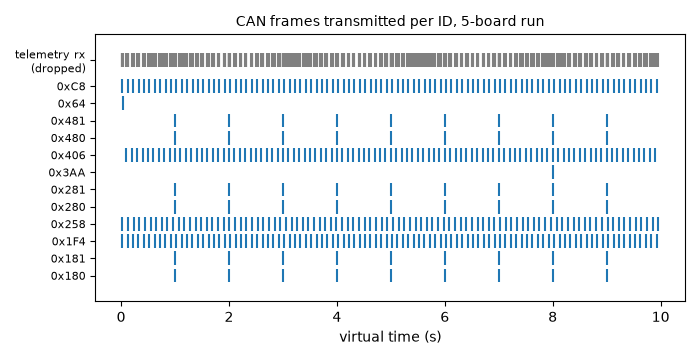
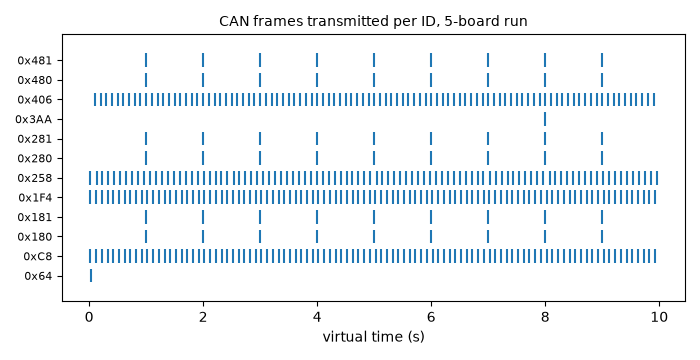
sim: connect TelemetryBoard's FDCAN1, correct the bit-rate-mismatch claim
TelemetryBoard's CAN pins are FDCAN1; FDCAN2 is never initialised and sat at its
1 Mbit/s reset value, so the scenario wiring was wrong, not the model or firmware.

diff --git a/Readme.md b/Readme.md
@@ -29,9 +29,15 @@ RelayBoard's PrechargeStatus (0x258, byte 0) against virtual time, with the BMS 
 
 ![CAN frames per ID](sim/screenshots/can-frames.png)
 
-Every frame transmitted on the main bus in the same run, one row per CAN ID. The grey top row is each
-frame TelemetryBoard was sent and dropped as `bit_rate_mismatch` (451 of 451; it received none), the gap
-described below.
+Every frame transmitted in the same run, one row per CAN ID.
+
+**Corrected 2026-11-16.** An earlier version of this page said TelemetryBoard's FDCAN2 ran at 1 Mbit/s and
+that the simulator dropped all 451 frames to it as `bit_rate_mismatch`, blaming a model or firmware
+init-order gap. That was a wiring error in `sim/scenario.yaml`, not a model or firmware fault:
+TelemetryBoard's CAN pins (PA11/PA12) are FDCAN1, and the firmware never initialises FDCAN2. The scenario
+connected `telemetry.fdcan2`, which sat at its reset NBTP `0x06000A03` (NBRP=0, NTSEG1=10, NTSEG2=3 =
+16 time quanta at the 16 MHz kernel clock = 1.000 Mbit/s, RM0440 section 44.4.7). The scenario now connects
+`telemetry.fdcan1`, which the firmware programs to 250 kbit/s like the other four boards' FDCAN2.
 
 **What runs:** five controllers, each on its own simulated STM32G474RET6, all on the same firmware tree.
 
@@ -41,7 +47,7 @@ described below.
 | MotorBoard | `MotorBoard` | boots, FDCAN1 and FDCAN2, throttle and regen potentiometers over I2C, sends and receives CAN |
 | BottomDistBoard | `BottomDistBoard` | boots, sends pedal status, receives CAN |
 | TopDistBoard | `TopDistBoard` | boots, receives CAN |
-| TelemetryBoard | `TelemetryBoard` | boots, but hears nothing on the bus and has no SD card, see the gaps below |
+| TelemetryBoard | `TelemetryBoard` | boots, receives CAN (451 of 451 frames in 10 s), has no SD card, see the gaps below |
 
 **The scenario**, as `sim graph --scenario sim/scenario.yaml` prints it. Square boxes are the simulated
 MCUs running the firmware, rounded boxes are the modelled parts around them, hexagons are the CAN buses:
@@ -63,7 +69,7 @@ flowchart LR
   medium0{{"can"}}
   relay -- "fdcan2" --- medium0
   motor -- "fdcan2" --- medium0
-  telemetry -- "fdcan2" --- medium0
+  telemetry -- "fdcan1" --- medium0
   topdist -- "fdcan2" --- medium0
   bottomdist -- "fdcan2" --- medium0
   relay_bps --- medium0
@@ -78,9 +84,9 @@ flowchart LR
 | Configuration | Where | Virtual | Wall | Result |
 | --- | --- | --- | --- | --- |
 | RelayBoard alone with BMS and MPPT peers | `sim/relay-only.yaml` | 10 s | 3.6 s | runs: 252 frames on the bus, precharge reaches Done at 5.48 s, fault at 8.07 s opens it |
-| All five boards, one main bus plus the motor bus | `sim/scenario.yaml` | 10 s | 14 to 24 s, depending on machine load | runs, except TelemetryBoard: see below |
+| All five boards, one main bus plus the motor bus | `sim/scenario.yaml` | 10 s | 14 to 24 s, depending on machine load | runs; TelemetryBoard has no SD card, see below |
 
-Both were run with Simantic's `sim` 0.10.0 (build f219eb31) on 2026-11-15, against firmware commit
+Both were run with Simantic's `sim` 0.10.0 (build f219eb31) on 2026-11-15 (five-board row re-run 2026-11-16 with the corrected scenario: 15 s wall, TelemetryBoard received 451 frames, no `bit_rate_mismatch` warnings), against firmware commit
 `dd53492` built with the Arm GNU toolchain 15.2, Debug, `BOARD=STM32G474RET6`. In the five-board run the
 buses carried 451 transmitted frames in 10 s: 100 MotorCommands (0xC8) from MotorBoard, 100 PedalStatus
 (0x1F4) from BottomDistBoard, 96 PrechargeStatus (0x258) and 1 AuxBatteryStatus (0x64) from RelayBoard,
@@ -99,18 +105,14 @@ The BMS and MPPT periods and the 8 s fault are stand-ins chosen for the scenario
 no cycle times); each is marked as a simplification in the peer.
 
 **Gaps, with the evidence:**
-- **TelemetryBoard sees no CAN traffic in the simulation. Cause not established.** The simulator warns
-  that its FDCAN2 runs at 1,000,000 bit/s while the other four boards and the peers run at 250,000, and
-  drops all 451 frames to it as `bit_rate_mismatch`. All five boards share one `fdcan.c`; in the RelayBoard and TelemetryBoard images there is one
-  call site into it, and TelemetryBoard asks for 250000 like the rest, so this is either a model gap or
-  an init-order effect in the firmware. `unverified` which.
 - **TelemetryBoard's SD card never mounts**: `SPI init failed: no matching peripheral for MOSI/MISO/SCK
   pins`, then `SD: mount failed`. Read from the source, the SD driver's file-scope SPI object claims SPI2
   before `app_main` builds a second one on the same pins. That is in the firmware, not the simulator, and
   it is left as is.
-- **Bus bit timing in the firmware** (`fdcan.c`): the prescaler is computed for a 4 MHz kernel clock
-  while FDCAN is clocked from the 16 MHz HSI, and before the time segments are set. The two errors
-  cancel and the boards that work read back 250 kbit/s, the rate they ask for. Reproduced, not fixed.
+- **Bus bit timing in the firmware** (`fdcan.c`): `calculate_prescaler(&hfdcanN, 4000000, baud)` is called
+  before NominalTimeSeg1/2 are assigned, and FDCAN is clocked from the 16 MHz HSI16, not 4 MHz. It yields
+  250 kbit/s only because 4 MHz x 4 matches the 16 MHz clock; the boards read back 250 kbit/s, the rate they
+  ask for. Reproduced, not fixed.
 - **`Log Overflow`** is logged on every board that prints the BpsError line.
 - No frame on the bus is a CAN-FD frame; the firmware uses classic CAN. Not run: DashboardCommands 0x12C
   is subscribed to by three boards and sent by none in this repository.
